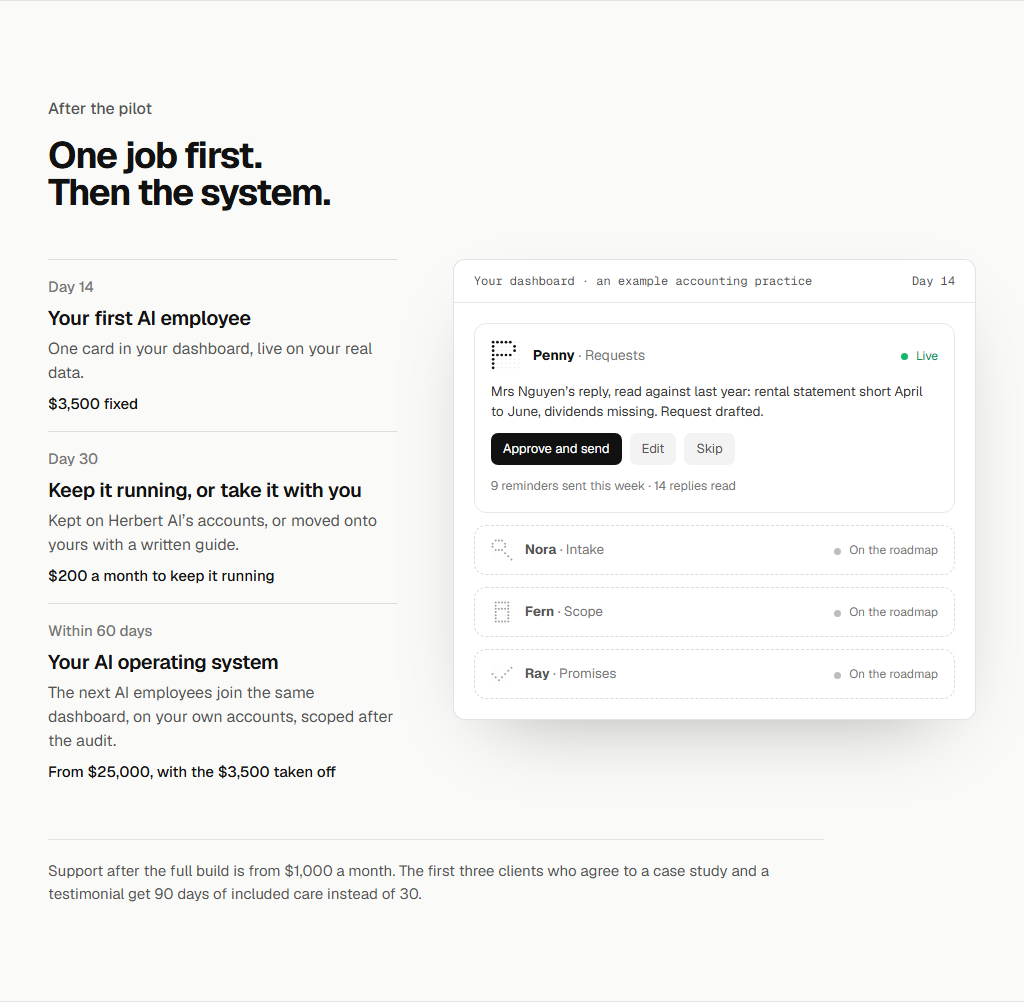
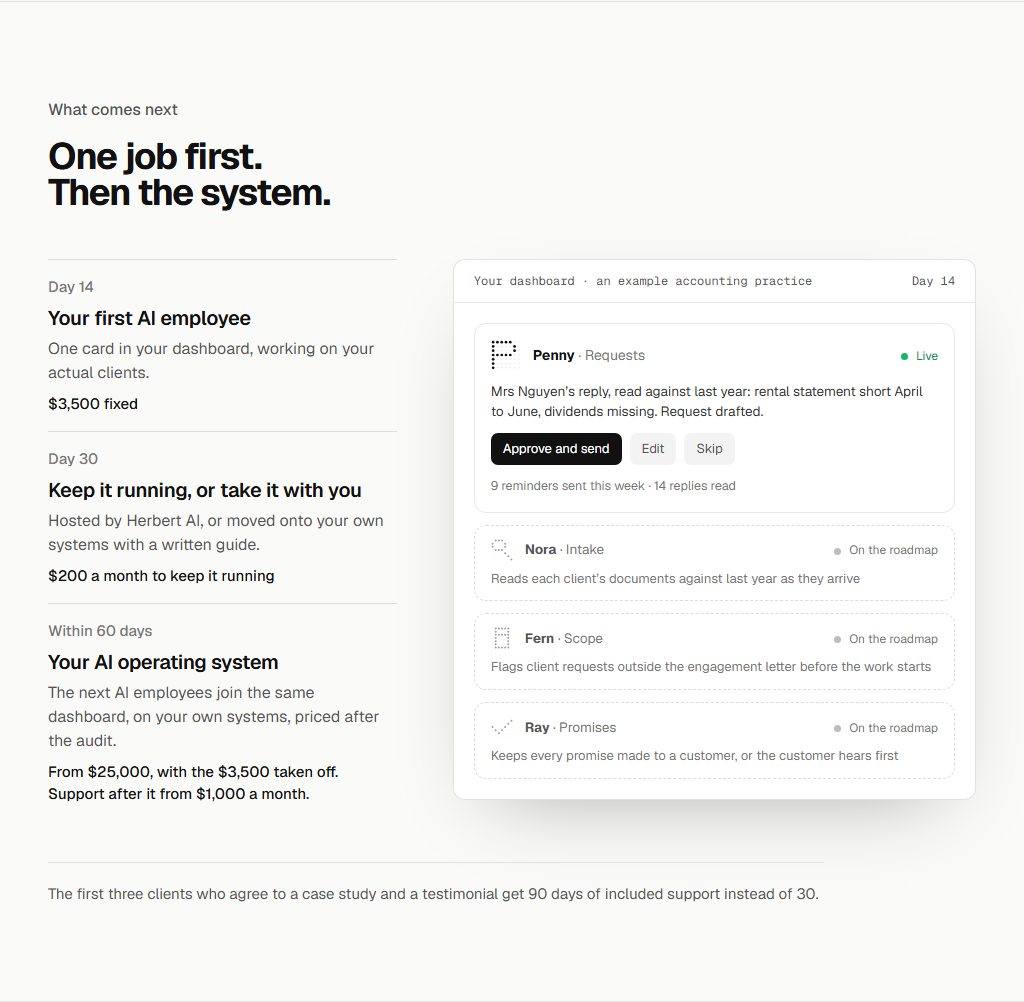
pilot what comes next: the four details built, balanced wrapping

diff --git a/herbertai-website/src/app/components/site/AfterPilot.js b/herbertai-website/src/app/components/site/AfterPilot.js
@@ -20,6 +20,8 @@ export const STAGE = {
   day30: ['Day 30', 'Keep it running, or take it with you', 'Hosted by Herbert AI, or moved onto your own systems with a written guide.', '$200 a month to keep it running'],
   os: ['Within 60 days', 'Your AI operating system', 'The next AI employees join the same dashboard, on your own systems, priced after the audit.', 'From $25,000, with the $3,500 taken off'],
   care: ['After the build', 'Kept running', 'Hosting, fixes, a set number of small changes and a monthly report.', 'From $1,000 a month'],
+  // Will, 16 Nov 2026, detail 3 "2": support sits with the third stage's price.
+  osCare: ['Within 60 days', 'Your AI operating system', 'The next AI employees join the same dashboard, on your own systems, priced after the audit.', 'From $25,000, with the $3,500 taken off. Support after it from $1,000 a month.'],
 }
 
 const glyphOf = (name) => EMPLOYEES.find((e) => e.name === name).glyph
@@ -31,14 +33,15 @@ export const QUEUED = [
 ]
 
 export const FOOT = 'Support after the full build is from $1,000 a month. The first three clients who agree to a case study and a testimonial get 90 days of included support instead of 30.'
+export const FIRST_THREE = 'The first three clients who agree to a case study and a testimonial get 90 days of included support instead of 30.'
 
 function Stages({ items }) {
   return items.map(([w, t, b, p]) => (
     <li key={t} className="border-t border-[#111]/12 py-4">
       <p className="text-[15px] font-medium text-[#777]">{w}</p>
       <h3 className="mt-1 text-[20px] font-semibold tracking-[-0.015em]">{t}</h3>
-      <p className="mt-1 text-[16px] leading-[1.5] text-[#555]">{b}</p>
-      <p className="mt-2 text-[15px] font-medium">{p}</p>
+      <p className="mt-1 text-[16px] leading-[1.5] text-[#555] text-pretty">{b}</p>
+      <p className="mt-2 text-[15px] font-medium text-pretty">{p}</p>
     </li>
   ))
 }
@@ -66,13 +69,13 @@ export function Dashboard({ queued = QUEUED, jobs = false, twoLive = false }) {
       </div>
       <div className="p-4 sm:p-5 space-y-3">
         <Live glyph={GLYPH.penny} name="Penny" job="Requests">
-          <p className="mt-3 text-[13.5px] leading-[1.45] text-[#333]">{`Mrs Nguyen${Q}s reply, read against last year: rental statement short April to June, dividends missing. Request drafted.`}</p>
+          <p className="mt-3 text-[13.5px] leading-[1.45] text-[#333] text-pretty">{`Mrs Nguyen${Q}s reply, read against last year: rental statement short April to June, dividends missing. Request drafted.`}</p>
           <div className="mt-3 flex flex-wrap gap-2 text-[13px]">
             <span className="rounded-[7px] bg-[#111] text-white px-2.5 sm:px-3 py-1.5">Approve and send</span>
             <span className="rounded-[7px] bg-[#111]/5 text-[#555] px-2.5 sm:px-3 py-1.5">Edit</span>
             <span className="rounded-[7px] bg-[#111]/5 text-[#555] px-2.5 sm:px-3 py-1.5">Skip</span>
           </div>
-          <p className="mt-3 text-[12.5px] text-[#777]">9 reminders sent this week · 14 replies read</p>
+          <p className="mt-3 text-[12.5px] text-[#777] text-pretty">9 reminders sent this week · <span className="whitespace-nowrap">14 replies read</span></p>
         </Live>
         {twoLive && (
           <Live glyph={GLYPH.nora} name="Nora" job="Intake">
@@ -89,7 +92,7 @@ export function Dashboard({ queued = QUEUED, jobs = false, twoLive = false }) {
               </div>
               <span className="ml-auto hidden sm:inline"><Status s="queued">On the roadmap</Status></span>
             </div>
-            {jobs && <p className="mt-2 text-[13px] leading-[1.45] text-[#777]">{line}</p>}
+            {jobs && <p className="mt-2 text-[13px] leading-[1.45] text-[#777] text-pretty">{line}</p>}
           </div>
         ))}
       </div>
@@ -100,7 +103,11 @@ export function Dashboard({ queued = QUEUED, jobs = false, twoLive = false }) {
 // order: 'list' (the stages, then the dashboard, on phones), 'dash' (the
 // dashboard first on phones), 'split' (on phones, the dashboard after the
 // first stage). Laptops always put the stages beside the dashboard.
-export default function AfterPilot({ stages = [STAGE.day14, STAGE.day30, STAGE.os], foot = FOOT, order = 'list', dash = {} }) {
+// The page renders the defaults. Will, 16 Nov 2026, the details ("1, 2, 2, 3"):
+// three stages kept, each queued employee says its job, support moves into the
+// third stage's price with the first three alone under, and on phones the
+// dashboard comes straight after Day 14.
+export default function AfterPilot({ stages = [STAGE.day14, STAGE.day30, STAGE.osCare], foot = FIRST_THREE, order = 'split', dash = { jobs: true } }) {
   return (
     <>
       <div className="mt-12 grid lg:grid-cols-[0.8fr_1.2fr] gap-x-14 gap-y-10 items-start">
@@ -119,7 +126,7 @@ export default function AfterPilot({ stages = [STAGE.day14, STAGE.day30, STAGE.o
           <Dashboard {...dash} />
         </div>
       </div>
-      {foot && <p className="mt-10 pt-5 border-t border-[#111]/10 text-[15px] leading-[1.5] text-[#555] max-w-[78ch]">{foot}</p>}
+      {foot && <p className="mt-10 pt-5 border-t border-[#111]/10 text-[15px] leading-[1.5] text-[#555] max-w-[78ch] text-pretty">{foot}</p>}
     </>
   )
 }

diff --git a/herbertai-website/docs/design/design-pass-site-2026-09.md b/herbertai-website/docs/design/design-pass-site-2026-09.md
@@ -2358,7 +2358,7 @@ memory records the third slip. From here /pilot runs section by section:
 | 2. The written page | [x] | [x] | [x] | [x] | [x] | Done 22 Oct 2026: the live sheet, text centred against it, no line under the heading, label kept, the link under the sheet on phones |
 | 3. How it works | [x] | [x] | [x] | [x] | [x] | Done 30 Oct 2026: "Your first AI employee in four steps." over four stops, each its time and its title only (no rows, no prices), the second stop "Two business days" |
 | 4. What it fixes | [x] | [x] | [x] | [x] | [x] | Done 4 Nov 2026 after the redo (Will: "B"): today’s six jobs and sentences, each under an employee that does that job; fit check, words re-read and tidy all recorded below |
-| 5. After the pilot | [x] | [x] | [x] | [x] | [~] | B built 30 Oct 2026 (Will: "B, dashboard"): the stages beside the dashboard; details 1 to 4 drawn, detail 5 (the heading) kept unless a line test is asked for; awaiting Will’s picks |
+| 5. What comes next (was After the pilot) | [x] | [x] | [x] | [x] | [~] | Details built 16 Nov 2026 (Will: "1,2,2,3"); one claim to settle before it closes: the first-three line conflicts with the Proof lane (live 2 Nov), Will’s call |
 | 6. Questions | [ ] | [ ] | [ ] | [x] | [ ] | Built from the skeleton only |
 | 7. Back to the form | [ ] | [ ] | [ ] | [x] | [ ] | Built from the skeleton only |
 
@@ -3161,3 +3161,34 @@ card, no stranded word in a sentence, every title on one line from 360 up
 ("The Monday report" takes two lines at 320, where the columns are 126px);
 eslint clean. Sheet refreshed: `design-pass-site-2026-11-03-pilot-fixes-built.png`.
 Section 4 is done.
+Will (16 Nov 2026): "Recommended: 1,2,2,3". Section 5’s details: the three stages kept, each queued employee says its job, support moves into the third stage’s price with the first three alone under, and on phones the dashboard comes straight after Day 14.
+
+## [~] /pilot section 5, What comes next: the details built, one claim open (16 Nov 2026)
+
+Built as the component’s defaults (the page is a server component and cannot
+take data from the client module): the three stages kept; each queued
+employee in the dashboard says its job (Nora reads each client’s documents
+against last year as they arrive, Fern flags requests outside the engagement
+letter, Ray keeps every promise made to a customer, all three lines the
+site’s own); the third stage’s price reads "From $25,000, with the $3,500
+taken off. Support after it from $1,000 a month." with the first three alone
+under; on phones the dashboard comes straight after Day 14. main merged in
+first (b637b83: eight commits from other sessions, the audit form, the lead
+forwarder, a security release). Tidy: stranded words below 375 ("drafted.",
+"read", "first", "guide.", "month.") fixed with balanced wrapping in six places
+and "14 replies read" kept together; measured at 1440, 1280, 1024, 375, 360
+and 320 with none left. Verified at five widths, motion on and off: no
+overflow, no page or console errors; on phones the order is Day 14, the
+dashboard, Day 30; the list and dashboard sit level at 1440 (515 and 541px);
+eslint clean. Sheet refreshed: `design-pass-site-2026-10-30-pilot-after-built.png`.
+
+The claim open: the line under the stages, "The first three clients who agree
+to a case study and a testimonial get 90 days of included support instead of
+30." (also on /pricing as "Founding clients: ..."), comes from the 16 Sep
+founding-client offer. The Proof lane (`marketing/proof/markdown/plan.md`,
+live from 2 Nov 2026) gives three Adelaide accounting and bookkeeping firms
+the audit and the first AI employee free for a named testimonial, with 30 days
+then $200 a month or a handover, and closes when the third testimonial is in.
+Both describe "the first three", on different terms. Which stands is Will’s
+call; the section closes once it is settled, with /pricing changed the same
+way.

diff --git a/herbertai-website/docs/design/CHARTER.md b/herbertai-website/docs/design/CHARTER.md
@@ -243,9 +243,10 @@ moves. As built, 30 Oct 2026, numbered on the page in
    only. Done 4 Nov after a redo (Will: "B").
 5. What comes next (was After the pilot): "One job first. Then the system."
    and the three stages after the first AI employee (Day 14, Day 30, within
-   60 days) with their prices, beside the dashboard that employee ships in,
-   the next ones queued in it. Built 30 Oct (Will: "B, dashboard"); its four
-   details are drawn and wait on his picks.
+   60 days) with their prices, support in the third, beside the dashboard
+   that employee ships in, the next ones queued in it with their jobs; on
+   phones the dashboard follows Day 14. Built 30 Oct (Will: "B, dashboard"),
+   details 16 Nov ("1,2,2,3"); the first-three line under it is open.
 6. Questions: "Before you book." and eight questions. Built from the skeleton;
    words settled by the tone pass and the cold read; its own options and
    details pass not yet run.
